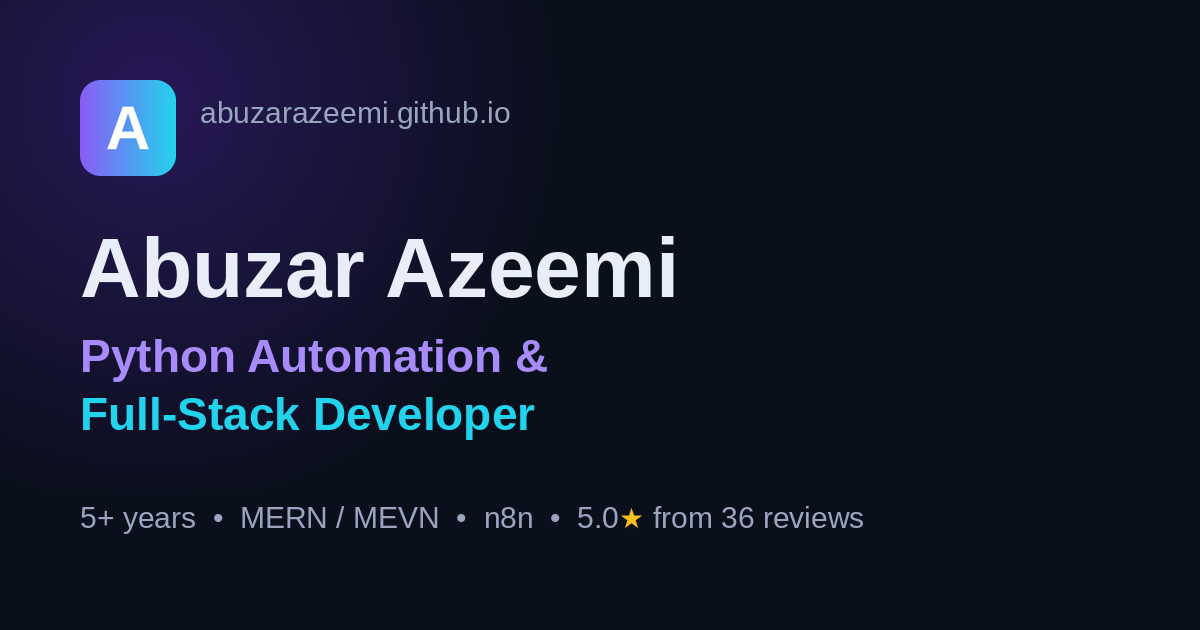
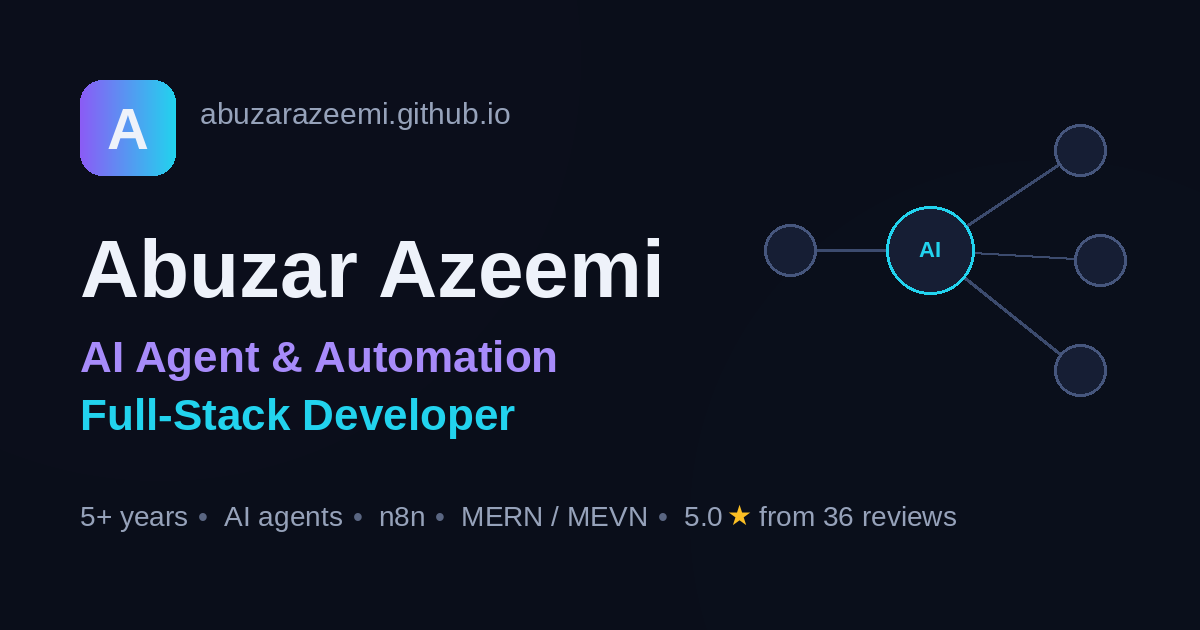
Update link preview image for AI agent positioning

diff --git a/index.html b/index.html
@@ -10,14 +10,14 @@
 <meta property="og:type" content="website">
 <meta property="og:url" content="https://abuzarazeemi.github.io/">
 <meta property="og:site_name" content="Abuzar Azeemi">
-<meta property="og:image" content="https://abuzarazeemi.github.io/og-image.png">
+<meta property="og:image" content="https://abuzarazeemi.github.io/og-image.png?v=2">
 <meta property="og:image:width" content="1200">
 <meta property="og:image:height" content="630">
-<meta property="og:image:alt" content="Abuzar Azeemi, Python Automation & Full-Stack Developer">
+<meta property="og:image:alt" content="Abuzar Azeemi, AI Agent, Automation & Full-Stack Developer">
 <meta name="twitter:card" content="summary_large_image">
 <meta name="twitter:title" content="Abuzar Azeemi | AI Agent, Automation & Full-Stack Developer">
 <meta name="twitter:description" content="AI agents, automation workflows, trading bots and full-stack web apps. 5.0★ from 36 client reviews.">
-<meta name="twitter:image" content="https://abuzarazeemi.github.io/og-image.png">
+<meta name="twitter:image" content="https://abuzarazeemi.github.io/og-image.png?v=2">
 <meta name="author" content="Abuzar Azeemi">
 <link rel="canonical" href="https://abuzarazeemi.github.io/">
 <link rel="icon" href="/favicon.ico" sizes="any">
